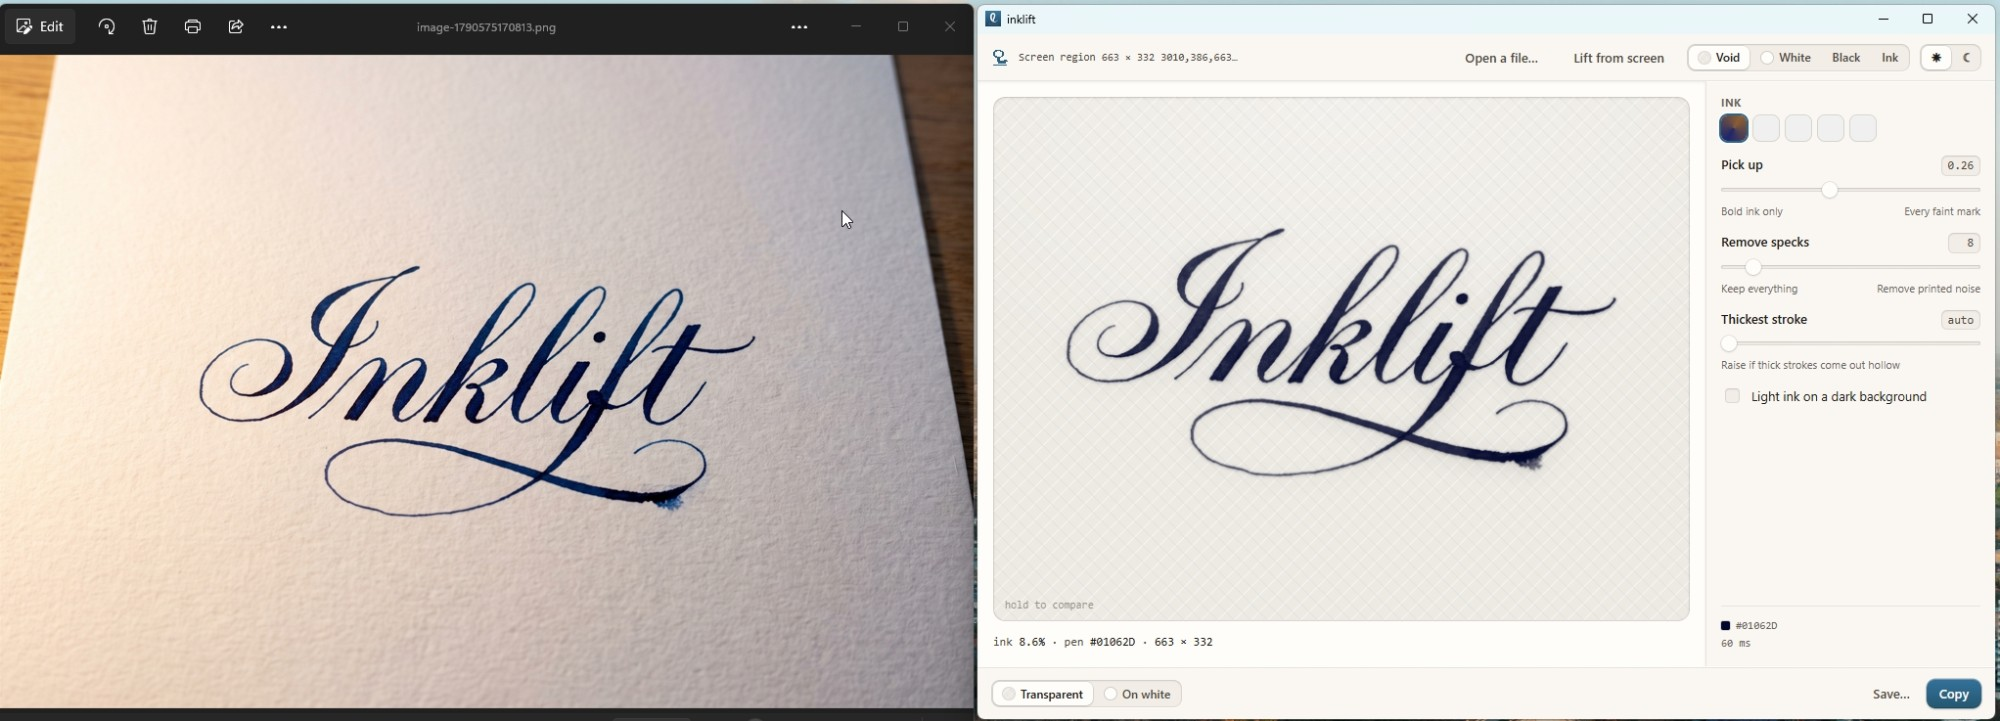
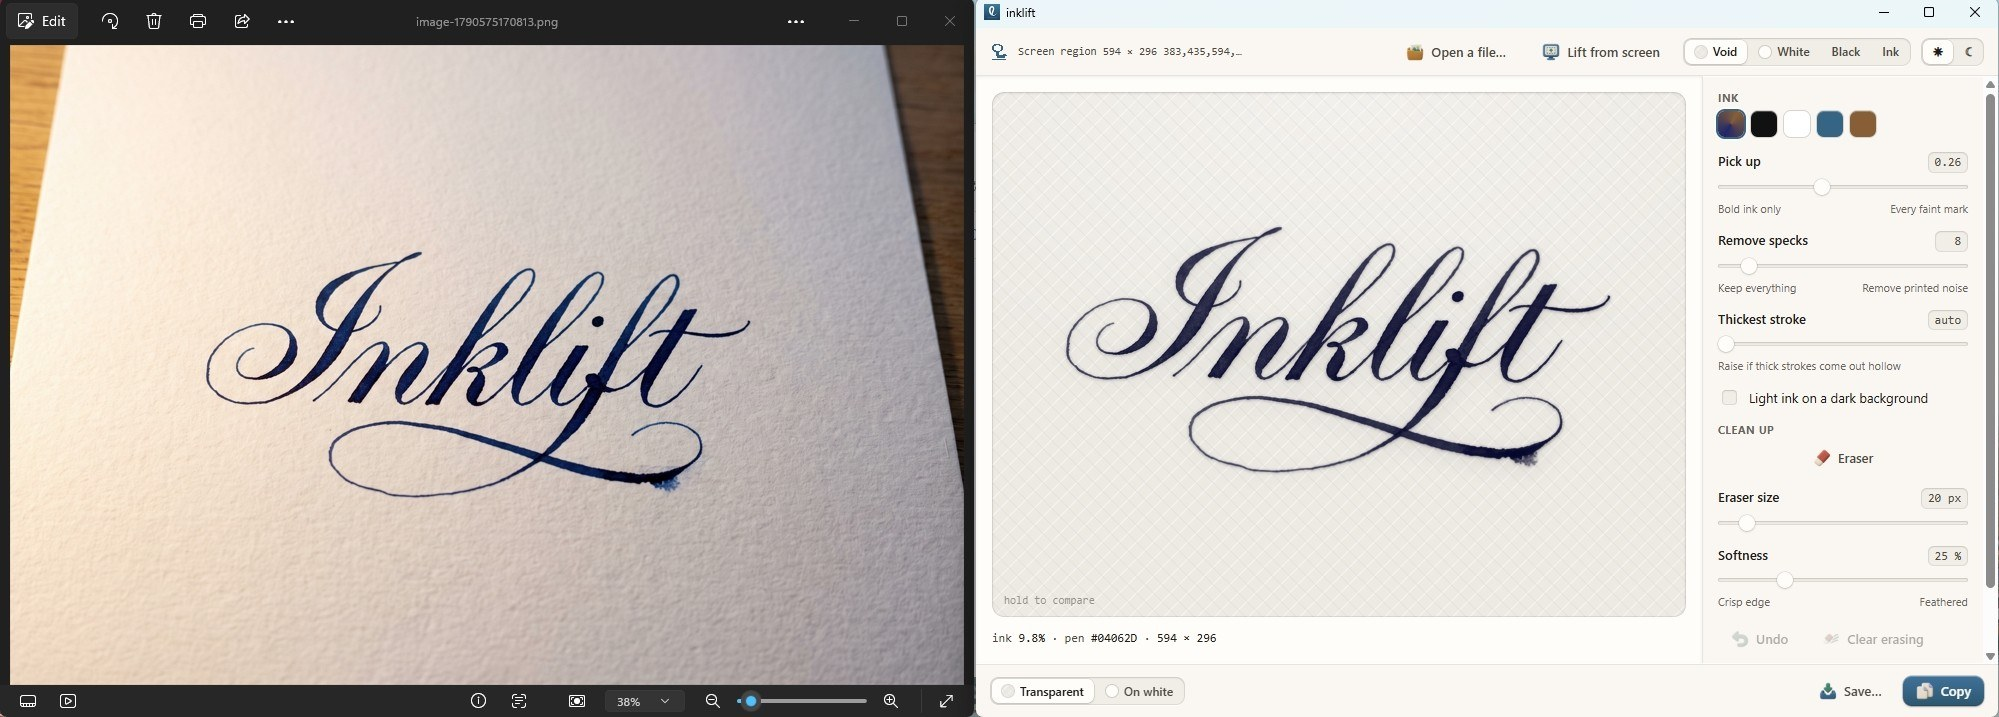
Show the current app in the README's screenshot
The screenshot of lifting from the screen on Windows predated the eraser,
the button icons and the swatch fix: its swatches were blank and it had no
Clean up section. It is replaced with one of the current app, and the alt
text now names the swatches and the eraser it shows.

diff --git a/README.md b/README.md
@@ -263,7 +263,7 @@ export (Ctrl+Z undoes a stroke).
 
 <p align="center">
   <img src="design/assets/readme-lift-from-screen-windows.jpg" width="880"
-       alt="The inklift desktop app on Windows, beside a photo viewer showing calligraphy on paper. The app shows the region it lifted from the screen, the extracted ink on a transparent preview, the tuning sliders, and the detected pen colour.">
+       alt="The inklift desktop app on Windows, beside a photo viewer showing calligraphy on paper. The app shows the region it lifted from the screen, the extracted ink on a transparent preview, the ink colour swatches, the tuning sliders, and the Clean up section with the eraser and its size and softness.">
 </p>
 <p align="center"><sub>Lifting from the screen on Windows. The lettering is an AI-generated sample
 made for this demo.</sub></p>
